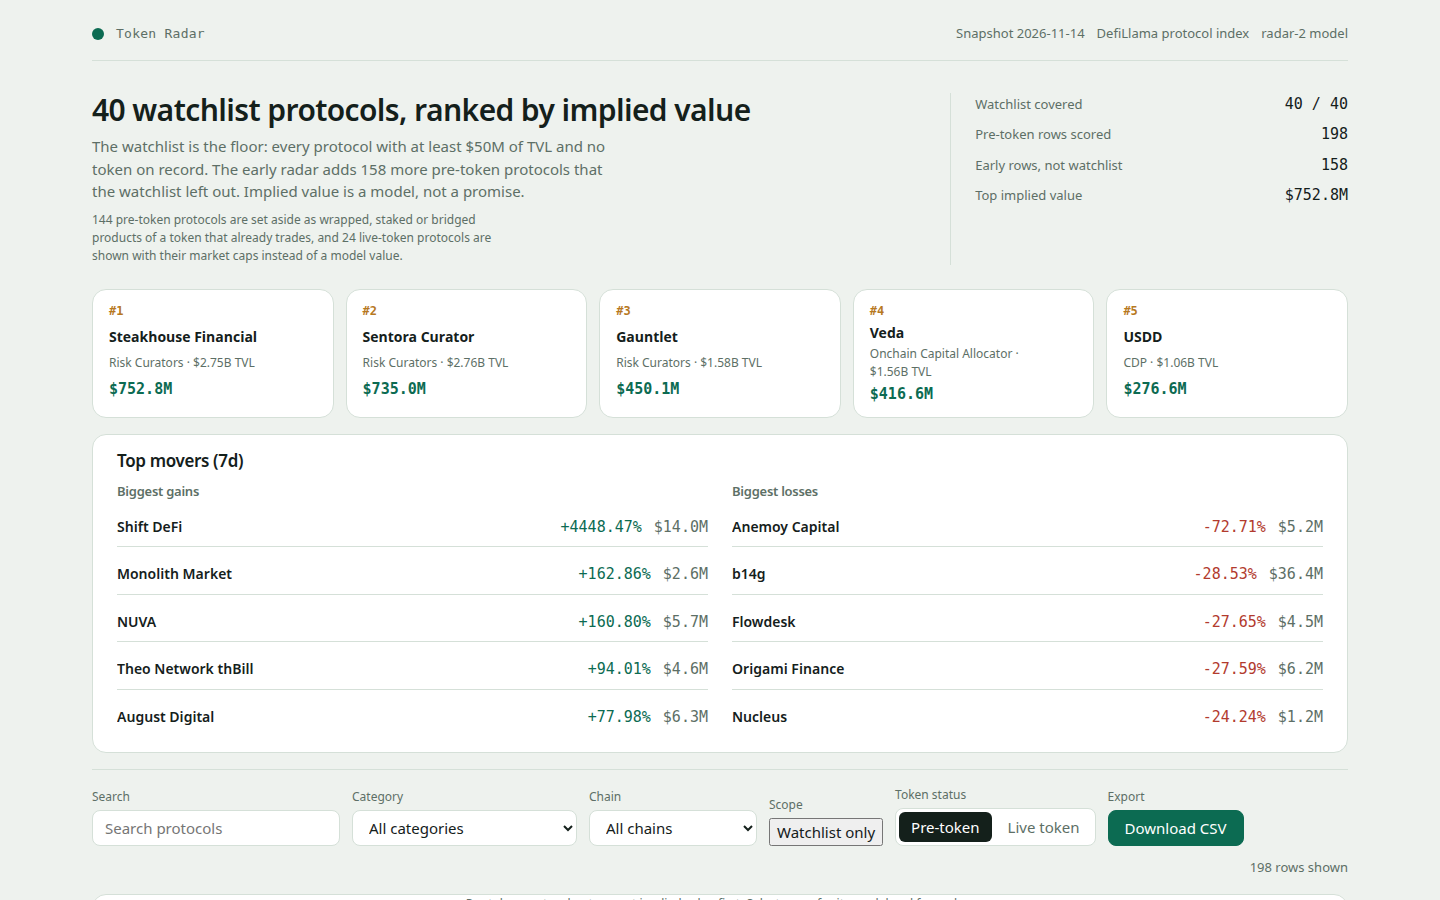
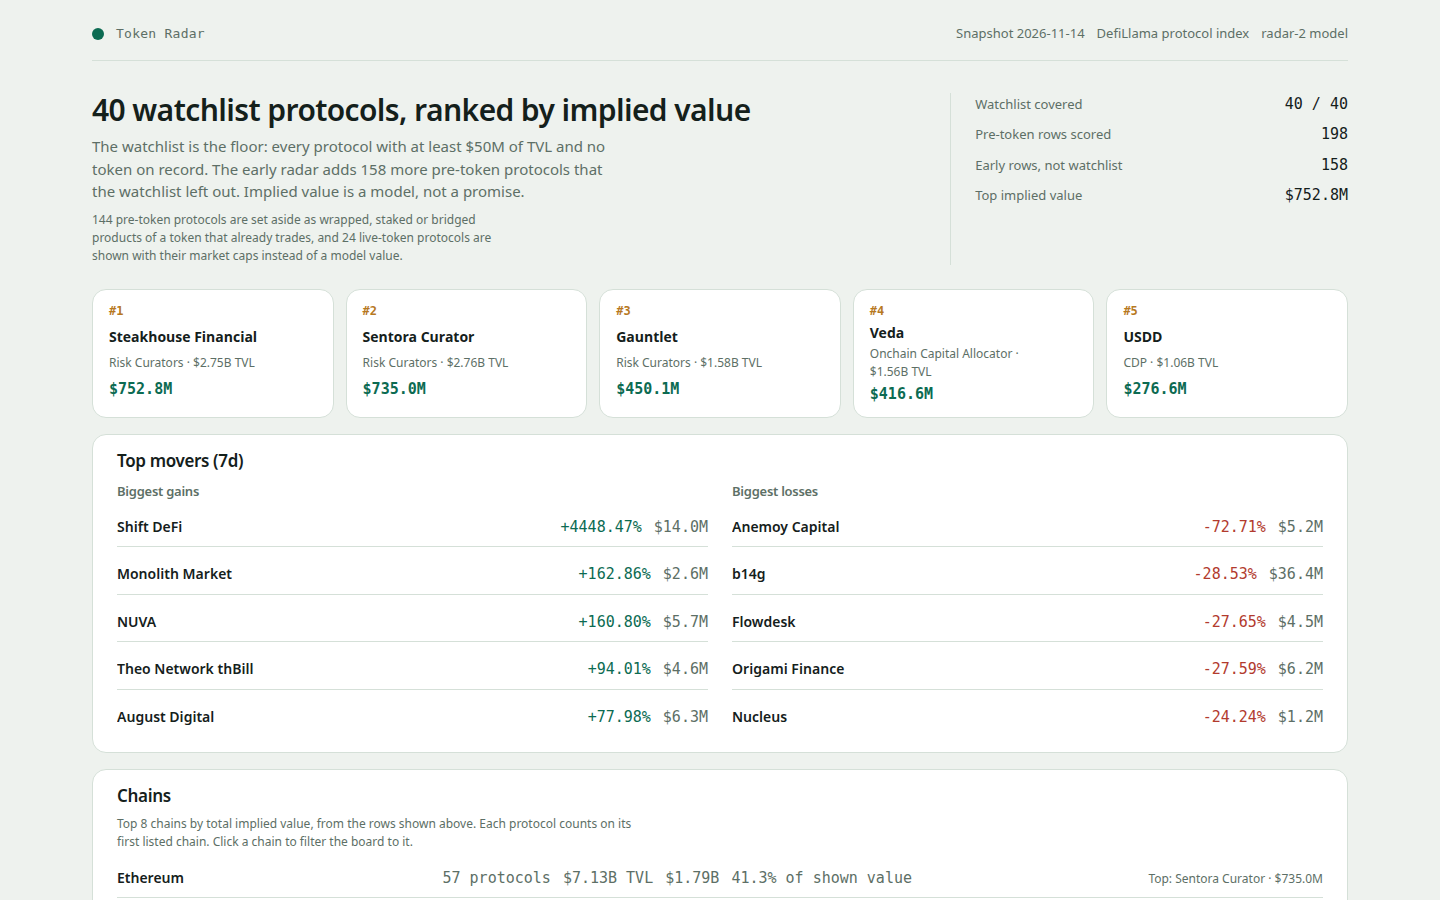
Add chain breakdown panel to dashboard

Changed region(s): [[0.0625, 0.8711, 0.9375, 1.0]]

diff --git a/dashboard/app.js b/dashboard/app.js
@@ -248,6 +248,75 @@
     return panel;
   }
 
+  // Chain breakdown: the rows the board currently shows, grouped by each
+  // protocol's first listed chain. The search, category and watchlist
+  // filters apply; the chain filter itself does not, so the panel stays a
+  // way to pick a chain instead of collapsing to the one already picked.
+  // Totals are the group's own sums, so the eight chains' implied values
+  // add up to the shown board's total. Nothing here changes the model:
+  // every number below is a sum or a max of rows the board already scores.
+  function chainBreakdownRows() {
+    var q = state.q.trim().toLowerCase();
+    return DATA.rows.filter(function (r) {
+      if (state.category !== 'all' && r.category !== state.category) return false;
+      if (state.watchOnly && !r.watchlist) return false;
+      if (!q) return true;
+      var hay = [r.name, r.slug, r.category, (r.chains || []).join(' ')].join(' ').toLowerCase();
+      return hay.indexOf(q) >= 0;
+    });
+  }
+  function chainBreakdownTotals(list) {
+    var byChain = {};
+    list.forEach(function (r) {
+      var chain = (r.chains && r.chains.length > 0) ? r.chains[0] : 'Unlisted chain';
+      var entry = byChain[chain];
+      if (!entry) {
+        entry = { chain: chain, count: 0, tvl: 0, implied: 0, top: null };
+        byChain[chain] = entry;
+      }
+      entry.count += 1;
+      entry.tvl += r.tvl_usd || 0;
+      entry.implied += shownImplied(r);
+      if (!entry.top || shownImplied(r) > shownImplied(entry.top)) entry.top = r;
+    });
+    var totals = Object.keys(byChain).map(function (k) { return byChain[k]; });
+    totals.sort(function (a, b) { return b.implied - a.implied; });
+    return totals.slice(0, 8);
+  }
+  function chainShare(entry, totalImplied) {
+    if (!totalImplied) return '0% of shown value';
+    return ((entry.implied / totalImplied) * 100).toFixed(1) + '% of shown value';
+  }
+  function chainRow(entry, totalImplied) {
+    var top = entry.top ? entry.top.name + ' · ' + fmtUsd(shownImplied(entry.top)) : 'no protocol';
+    return el('button', { type: 'button', class: 'chain-row', onclick: function () { state.chain = entry.chain; writeHash(); render(); var sel = document.getElementById('chain'); if (sel && sel.scrollIntoView) sel.scrollIntoView(); } },
+      el('span', { class: 'chain-name', text: entry.chain }),
+      el('span', { class: 'num chain-stats', text: entry.count + ' protocol' + (entry.count === 1 ? '' : 's') }),
+      el('span', { class: 'num chain-stats', text: fmtUsd(entry.tvl) + ' TVL' }),
+      el('span', { class: 'num chain-stats', text: fmtUsd(entry.implied) }),
+      el('span', { class: 'num chain-stats', text: chainShare(entry, totalImplied) }),
+      el('span', { class: 'chain-top sub', text: 'Top: ' + top })
+    );
+  }
+  function renderChainBreakdown() {
+    var list = chainBreakdownRows();
+    var totals = chainBreakdownTotals(list);
+    var totalImplied = totals.reduce(function (sum, entry) { return sum + entry.implied; }, 0);
+    var template = document.getElementById('chain-breakdown-template');
+    var panel;
+    if (template && template.content && template.content.firstElementChild) {
+      panel = template.content.firstElementChild.cloneNode(true);
+    } else {
+      panel = el('section', { class: 'chains-panel', 'aria-label': 'Chains' }, el('h2', { text: 'Chains' }));
+    }
+    var cols = panel.querySelector('.chains-cols');
+    if (!cols) { cols = el('div', { class: 'chains-cols' }); panel.appendChild(cols); }
+    totals.forEach(function (entry) { cols.appendChild(chainRow(entry, totalImplied)); });
+    if (totals.length === 0) cols.appendChild(el('p', { class: 'sub', text: 'No chain matches the current filters.' }));
+    panel.appendChild(el('p', { class: 'sub chains-note', text: totals.length + ' chains shown · ' + list.length + ' protocols in the current view · ' + fmtUsd(totalImplied) + ' implied value in total' }));
+    return panel;
+  }
+
   function header() {
     return el('header', { class: 'top' },
       el('div', { class: 'brand' }, el('span', { class: 'mark' }), el('span', { class: 'brand-name', text: 'Token Radar' })),
@@ -505,6 +574,7 @@
     shell.appendChild(lede());
     shell.appendChild(spotlight());
     if (state.tab === 'pre-token') shell.appendChild(renderTopMovers());
+    if (state.tab === 'pre-token') shell.appendChild(renderChainBreakdown());
     shell.appendChild(controls());
     shell.appendChild(state.tab === 'pre-token' ? boardTable() : liveTable());
     if (state.tab === 'pre-token') shell.appendChild(modelPanel());

diff --git a/dashboard/app.css b/dashboard/app.css
@@ -178,3 +178,25 @@ tbody tr[data-selected="true"] { background: var(--accent-soft); }
 @media (max-width: 900px) {
   .movers-cols { grid-template-columns: 1fr; }
 }
+
+.chains-panel {
+  background: var(--surface); border: 1px solid var(--border); border-radius: var(--radius-panel);
+  padding: var(--step-4) var(--step-5); margin-bottom: var(--step-4); display: grid; gap: var(--step-2);
+}
+.chains-panel h2 { font-size: 17px; }
+.chains-panel > p.sub { max-width: 78ch; }
+.chains-cols { display: grid; gap: 0; }
+.chain-row {
+  display: grid; grid-template-columns: minmax(0, 1.1fr) auto auto auto auto minmax(0, 1.4fr); gap: var(--step-3); align-items: baseline;
+  text-align: left; padding: var(--step-2) 0; border: 0; border-bottom: 1px solid var(--border); background: none;
+}
+.chain-row:last-child { border-bottom: 0; }
+.chain-row:hover .chain-name { color: var(--accent); }
+.chain-name { font-weight: 600; font-size: 14px; overflow: hidden; text-overflow: ellipsis; white-space: nowrap; }
+.chain-stats { color: var(--muted); white-space: nowrap; }
+.chain-top { overflow: hidden; text-overflow: ellipsis; white-space: nowrap; text-align: right; }
+.chains-note { color: var(--muted); font-size: 13px; }
+@media (max-width: 900px) {
+  .chain-row { grid-template-columns: minmax(0, 1fr) auto auto; }
+  .chain-top { grid-column: 1 / -1; text-align: left; }
+}

diff --git a/dashboard/index.html b/dashboard/index.html
@@ -17,6 +17,14 @@
     <div class="movers-cols"></div>
   </section>
 </template>
+<!-- Chain breakdown skeleton, filled by renderChainBreakdown in app.js. -->
+<template id="chain-breakdown-template">
+  <section class="chains-panel" aria-label="Chains">
+    <h2>Chains</h2>
+    <p class="sub">Top 8 chains by total implied value, from the rows shown above. Each protocol counts on its first listed chain. Click a chain to filter the board to it.</p>
+    <div class="chains-cols"></div>
+  </section>
+</template>
 <script src="../data.js"></script>
 <script src="app.js"></script>
 </body>
